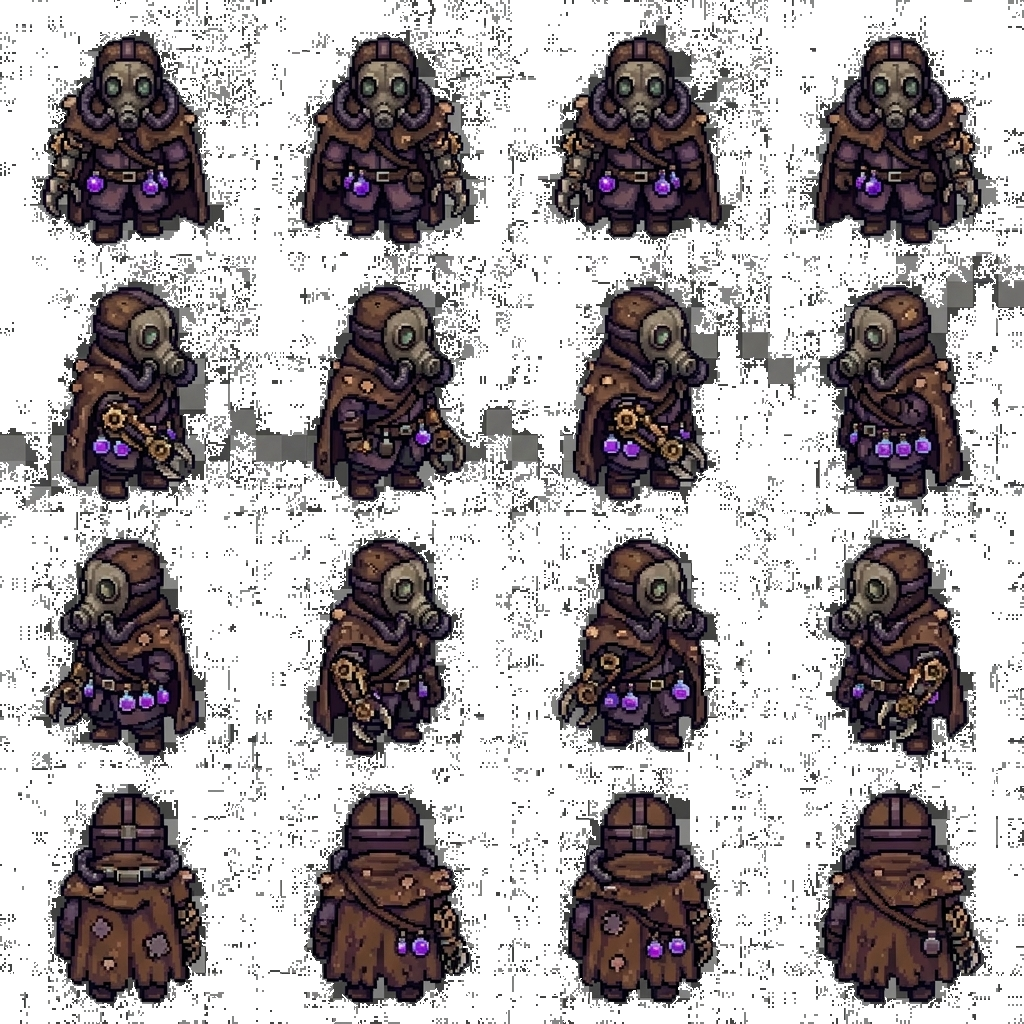
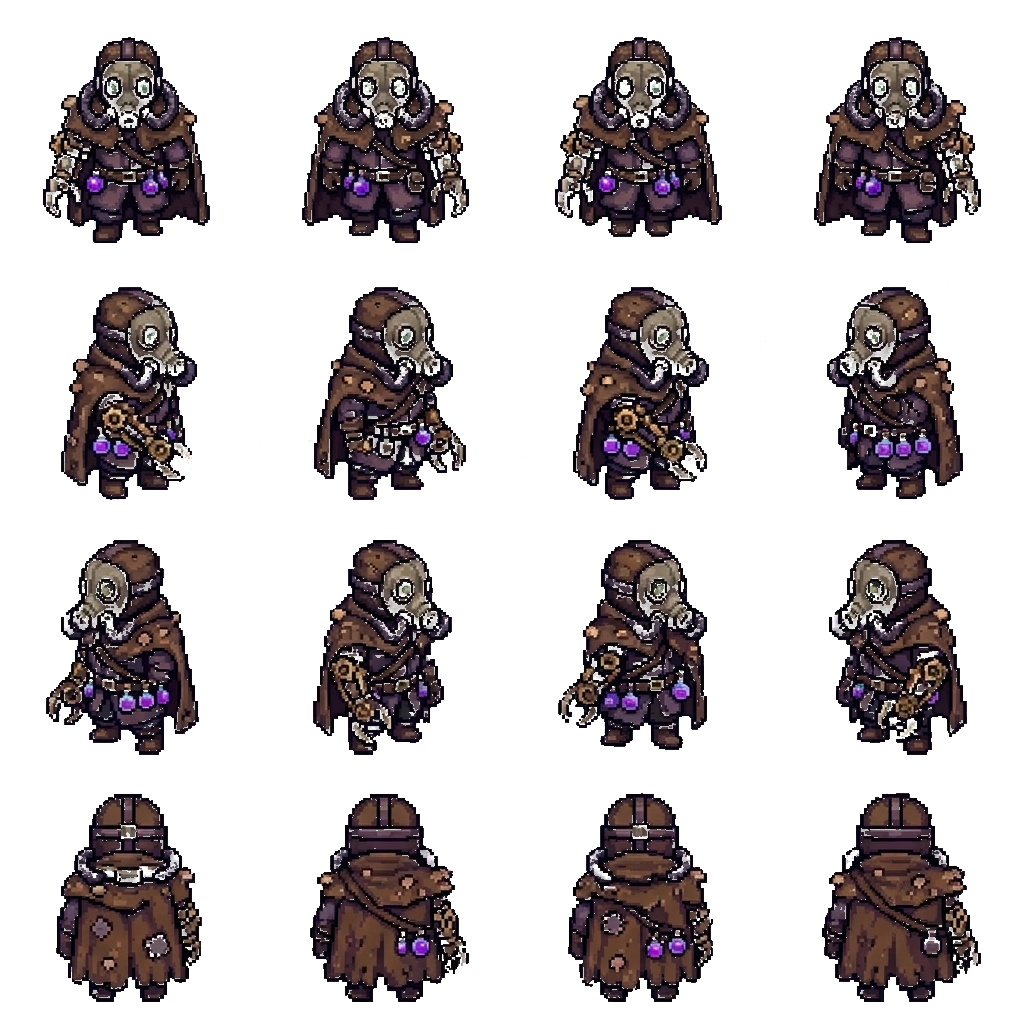
Fix invisible player: attack sprite state and sheet transparency
The player was never drawn. Player.draw() only had a fallback in the
walk-sprite branch, and the attack branch drew nothing when the sprite
was missing. assets/images/player_attack/throw.png and
assets/images/projectiles/potion.png were both referenced by the config
but absent from the repo, so every attack frame rendered nothing.

The attack state also never cleared: attackCols(4) * attackAnimSpeed(4)
= 16 frames of animation against an attackRate of 14, so isAttacking was
stuck true from the first shot onwards and the empty attack branch ran
every single frame.

Assets:
- add throw.png and potion.png at the paths the config expects
- add the walk and death sheets from the same batch
- re-key alchemist_purple.png: 28% of it was opaque checkerboard grey
  that rendered as blocks around the character

All five sheets shipped with the transparency checkerboard baked in as
real pixels. Keyed it out by flood-filling checker-coloured pixels from
the borders, and recovering alpha for glow pixels from their chroma.
The last death frame still has artefacts where the smoke plume sits on
checker cells; that frame is not used by the game.

Code:
- draw() falls through attack sprite -> walk sprite -> primitives, so a
  missing asset can no longer make the player invisible
- clamp attackAnimSpeed so the throw always finishes within attackRate
- hold the last throw frame until reload instead of flicking back to the
  walk sprite for two frames (fire is automatic, so it flickered on
[…]

diff --git a/docs/js/entities/player.js b/docs/js/entities/player.js
@@ -18,11 +18,18 @@ export class Player {
     this.shieldActive=false; this.shieldTimer=0; this.dashCooldown=0; this.projectileType="antidote";
     this.ricochet=false; this.explosive=false; this.poison=false; this.autoLoot=false; this.lootRadius=40;
     this.canDash=false; this.regen=0; this.xpMult=1; this.lastKeyTime={w:0,a:0,s:0,d:0}; this.lastKey="";
-    this.animTimer=0; this.animFrame=0; this.animSpeed=8;
+    this.animTimer=0; this.animFrame=0; this.animSpeed=8; this.isMoving=false;
     // === НОВОЕ: анимация броска ===
     this.attackAnimTimer=0;
     this.attackAnimFrame=0;
     this.isAttacking=false;
+    // Анимация броска обязана доигрывать быстрее, чем перезаряжается атака.
+    // Иначе isAttacking больше никогда не сбрасывается и игрок навсегда
+    // остаётся в кадре броска.
+    this.attackAnimSpeed=Math.max(1,Math.min(
+      CONFIG.player.attackAnimSpeed,
+      Math.floor((CONFIG.player.attackRate-1)/CONFIG.player.attackCols)
+    ));
   }
 
   update(input,w,h,dt,enemies){
@@ -58,21 +65,29 @@ export class Player {
     // === НОВОЕ: обновление анимации атаки ===
     if(this.isAttacking){
       this.attackAnimTimer++;
-      if(this.attackAnimTimer>=CONFIG.player.attackAnimSpeed){
+      if(this.attackAnimTimer>=this.attackAnimSpeed){
         this.attackAnimTimer=0;
-        this.attackAnimFrame++;
-        if(this.attackAnimFrame>=CONFIG.player.attackCols){
-          this.isAttacking=false;
-          this.attackAnimFrame=0;
-        }
+        if(this.attackAnimFrame<CONFIG.player.attackCols-1) this.attackAnimFrame++;
+      }
+      // Анимация доиграла — держим последний кадр до конца перезарядки.
+      // Возвращаться к спрайту ходьбы на пару кадров нельзя: стрельба
+      // автоматическая, и спрайт бы дёргался туда-сюда каждый выстрел.
+      if(this.attackCooldown<=0 && this.attackAnimFrame>=CONFIG.player.attackCols-1){
+        this.isAttacking=false;
+        this.attackAnimFrame=0;
       }
     }
 
-    // Анимация ходьбы
-    this.animTimer++;
-    if(this.animTimer>=this.animSpeed){
-      this.animTimer=0;
-      this.animFrame=(this.animFrame+1)%CONFIG.player.spriteCols;
+    // Анимация ходьбы — крутится только когда игрок реально идёт
+    this.isMoving=(dx!==0||dy!==0);
+    if(this.isMoving){
+      this.animTimer++;
+      if(this.animTimer>=this.animSpeed){
+        this.animTimer=0;
+        this.animFrame=(this.animFrame+1)%CONFIG.player.spriteCols;
+      }
+    } else {
+      this.animTimer=0; this.animFrame=0;
     }
   }
 
@@ -112,51 +127,49 @@ export class Player {
   reduceSpore(a){ this.sporeLevel=Math.max(0,this.sporeLevel-a); }
 
   draw(renderer){
-    // === НОВОЕ: если идёт анимация атаки — рисуем спрайт броска ===
-    if(this.isAttacking){
-      // ЗДЕСЬ: используем ключ загрузчика (playerAttack), а не путь из CONFIG.player.attackSprite
-      const atkImg=renderer.loader?.getImage("playerAttack");
-      if(atkImg){
-        renderer.drawSpriteSheet(
-          atkImg, this.x, this.y,
-          CONFIG.player.attackFrameW, CONFIG.player.attackFrameH,
-          this.attackAnimFrame, 0,
-          CONFIG.player.attackDisplaySize,
-          this.angle
-        );
-      }
+    // Ключи загрузчика (CONFIG.assets.images), а не пути к файлам.
+    const atkImg=renderer.loader?.getImage("playerAttack");
+    const bodyImg=renderer.loader?.getImage("player");
+    // Спрайт броска нарисован лицом вправо: зеркалим его при стрельбе влево.
+    // Вращать спрайт персонажа нельзя — направление уже задано рядом листа.
+    const faceLeft=Math.cos(this.angle)<0;
+
+    if(this.isAttacking && atkImg){
+      renderer.drawSpriteSheet(
+        atkImg, this.x, this.y,
+        CONFIG.player.attackFrameW, CONFIG.player.attackFrameH,
+        this.attackAnimFrame, 0,
+        CONFIG.player.attackDisplaySize,
+        0, faceLeft
+      );
+    } else if(bodyImg){
+      // Обычный спрайт игрока: ряд листа = направление взгляда
+      renderer.drawSpriteSheet(
+        bodyImg, this.x, this.y,
+        CONFIG.player.spriteFrameW, CONFIG.player.spriteFrameH,
+        this.animFrame, angleToRow(this.angle),
+        CONFIG.player.spriteDisplaySize,
+        0
+      );
     } else {
-      // Обычный спрайт игрока
-      // ЗДЕСЬ: используем ключ загрузчика 'player' (AssetLoader хранит изображения по ключам из CONFIG.assets.images)
-      const img=renderer.loader?.getImage("player");
-      if(img){
-        const row=angleToRow(this.angle);
-        renderer.drawSpriteSheet(
-          img, this.x, this.y,
-          CONFIG.player.spriteFrameW, CONFIG.player.spriteFrameH,
-          this.animFrame, row,
-          CONFIG.player.spriteDisplaySize,
-          this.angle
-        );
-      } else {
-        // Fallback-отрисовка примитивами
-        renderer.drawGlowCircle(this.x,this.y,this.radius+6,this.color.glow,12);
-        renderer.drawGradientCircle(this.x,this.y,this.radius,this.color.body);
-        renderer.ctx.strokeStyle=this.color.stroke; renderer.ctx.lineWidth=2; renderer.ctx.stroke();
-        for(let side=-1;side<=1;side+=2){
-          const ex=this.x+Math.cos(this.angle+side*0.45)*this.radius*0.45;
-          const ey=this.y+Math.sin(this.angle+side*0.45)*this.radius*0.45;
-          renderer.drawCircle(ex,ey,4,"#00d4aa");
-          renderer.drawCircle(ex+Math.cos(this.angle)*1.5,ey+Math.sin(this.angle)*1.5,2,"#000");
-        }
-        renderer.ctx.strokeStyle="#2a2a2a"; renderer.ctx.lineWidth=2; renderer.ctx.beginPath();
-        renderer.ctx.moveTo(this.x-6,this.y+4); renderer.ctx.lineTo(this.x-10,this.y+12);
-        renderer.ctx.moveTo(this.x+6,this.y+4); renderer.ctx.lineTo(this.x+10,this.y+12); renderer.ctx.stroke();
-        renderer.drawGlowCircle(this.x-8,this.y+10,3,"#39ff14",6);
-        renderer.drawCircle(this.x-8,this.y+10,3,"#39ff14");
-        renderer.drawGlowCircle(this.x+8,this.y+10,3,"#c4a000",6);
-        renderer.drawCircle(this.x+8,this.y+10,3,"#c4a000");
+      // Fallback-отрисовка примитивами: сюда попадаем, если ни один спрайт
+      // не загрузился — игрок обязан остаться видимым в любом случае.
+      renderer.drawGlowCircle(this.x,this.y,this.radius+6,this.color.glow,12);
+      renderer.drawGradientCircle(this.x,this.y,this.radius,this.color.body);
+      renderer.ctx.strokeStyle=this.color.stroke; renderer.ctx.lineWidth=2; renderer.ctx.stroke();
+      for(let side=-1;side<=1;side+=2){
+        const ex=this.x+Math.cos(this.angle+side*0.45)*this.radius*0.45;
+        const ey=this.y+Math.sin(this.angle+side*0.45)*this.radius*0.45;
+        renderer.drawCircle(ex,ey,4,"#00d4aa");
+        renderer.drawCircle(ex+Math.cos(this.angle)*1.5,ey+Math.sin(this.angle)*1.5,2,"#000");
       }
+      renderer.ctx.strokeStyle="#2a2a2a"; renderer.ctx.lineWidth=2; renderer.ctx.beginPath();
+      renderer.ctx.moveTo(this.x-6,this.y+4); renderer.ctx.lineTo(this.x-10,this.y+12);
+      renderer.ctx.moveTo(this.x+6,this.y+4); renderer.ctx.lineTo(this.x+10,this.y+12); renderer.ctx.stroke();
+      renderer.drawGlowCircle(this.x-8,this.y+10,3,"#39ff14",6);
+      renderer.drawCircle(this.x-8,this.y+10,3,"#39ff14");
+      renderer.drawGlowCircle(this.x+8,this.y+10,3,"#c4a000",6);
+      renderer.drawCircle(this.x+8,this.y+10,3,"#c4a000");
     }
 
     if(this.shieldActive&&this.shieldTimer>0){

diff --git a/docs/js/config.js b/docs/js/config.js
@@ -16,18 +16,23 @@ export const CONFIG = {
     spriteCols: 4, spriteRows: 4,
     spriteDisplaySize: 64,
     // === НОВОЕ: анимация атаки ===
+    // Лист 2064x512, 4 кадра в ряд => кадр 516x512.
+    // attackCols * attackAnimSpeed должно быть МЕНЬШЕ attackRate,
+    // иначе анимация не успевает доиграть до следующего броска и игрок
+    // навсегда застревает в состоянии атаки (Player.update это ещё и подстрахует).
     attackSprite: "assets/images/player_attack/throw.png",
     attackFrameW: 516, attackFrameH: 512,
     attackCols: 4, attackRows: 1,
     attackDisplaySize: 64,
-    attackAnimSpeed: 4,
+    attackAnimSpeed: 3,
     color: { body: ["#5c3a21","#3d2616","#2a1a0f"], glow: "#00d4aa", stroke: "#6b2d5c" }
   },
   projectile: {
     // === НОВОЕ: спрайт снаряда ===
+    // Один кадр 256x256, склянка смотрит вправо, искры тянутся назад.
     sprite: "assets/images/projectiles/potion.png",
-    frameW: 516, frameH: 512,
-    cols: 4, rows: 1,
+    frameW: 256, frameH: 256,
+    cols: 1, rows: 1,
     displaySize: 32,
     animSpeed: 5
   },

diff --git a/docs/js/engine/renderer.js b/docs/js/engine/renderer.js
@@ -36,11 +36,14 @@ export class Renderer {
     if(!img) return; this.ctx.save(); this.ctx.translate(x,y); this.ctx.rotate(angle); this.ctx.drawImage(img,-w/2,-h/2,w,h); this.ctx.restore();
   }
   // === НОВОЕ: анимированный спрайт-лист ===
-  drawSpriteSheet(img,x,y,frameW,frameH,col,row,displaySize,angle=0){
+  // angle вращает кадр (для снарядов), flip зеркалит его по горизонтали
+  // (для персонажа: направление задаётся рядом листа, вращать его нельзя).
+  drawSpriteSheet(img,x,y,frameW,frameH,col,row,displaySize,angle=0,flip=false){
     if(!img) return;
     this.ctx.save();
     this.ctx.translate(x,y);
-    this.ctx.rotate(angle);
+    if(angle) this.ctx.rotate(angle);
+    if(flip) this.ctx.scale(-1,1);
     this.ctx.drawImage(img, col*frameW, row*frameH, frameW, frameH, -displaySize/2, -displaySize/2, displaySize, displaySize);
     this.ctx.restore();
   }

diff --git a/docs/js/entities/projectile.js b/docs/js/entities/projectile.js
@@ -25,7 +25,8 @@ export class Projectile {
   isOffScreen(w,h){ return this.x<-30||this.x>w+30||this.y<-30||this.y>h+30; }
 
   draw(renderer){
-    const img=renderer.loader?.getImage(CONFIG.projectile.sprite);
+    // Ключ загрузчика из CONFIG.assets.images, а не путь к файлу.
+    const img=renderer.loader?.getImage("projectile");
     if(img){
       renderer.drawSpriteSheet(
         img, this.x, this.y,
